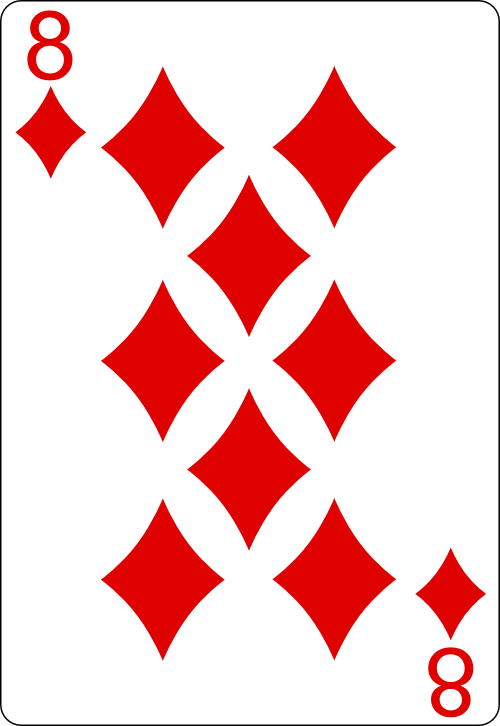
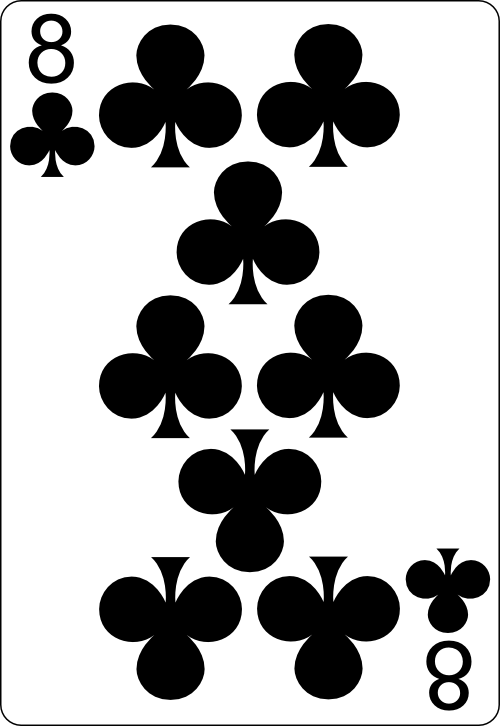
refactor: update rule 梅花 < 方塊 < 愛心 < 黑桃

diff --git a/game/gameLogic.py b/game/gameLogic.py
@@ -242,14 +242,14 @@ def convertHand(hand):
         else:
             base = int(card[0])-2
         
-        if card[1] == "D":
-            suit = 1
-        elif card[1] == "C":
-            suit = 2
+        if card[1] == "C":
+            suit = 1  # 梅花 (Club)
+        elif card[1] == "D":
+            suit = 2  # 方塊 (Diamond)
         elif card[1] == "H":
-            suit = 3
+            suit = 3  # 愛心 (Heart)
         elif card[1] == "S":
-            suit = 4
+            suit = 4  # 黑桃 (Spade)
             
         output[counter] = int((base-1)*4 + suit)
         counter += 1
@@ -268,7 +268,7 @@ def cardValue(num):
 
 class card:
     def __init__(self, number, i):
-        self.suit = number % 4 #1 - Diamond, 2 - Club, 3- Heart, 0 - Spade
+        self.suit = number % 4 #1 - Club, 2 - Diamond, 3 - Heart, 0 - Spade
         self.value = np.ceil(number/4) #from 1 to 13.
         self.indexInHand = i #index within current hand (from 0 to 12)
         self.inPair = 0
@@ -296,13 +296,13 @@ class card:
         elif self.value == 13:
             string1 = "2"
         if self.suit == 1:
-            string2 = "D"
+            string2 = "C"  # 梅花 (Club)
         elif self.suit == 2:
-            string2 = "C"
+            string2 = "D"  # 方塊 (Diamond)
         elif self.suit == 3:
-            string2 = "H"
+            string2 = "H"  # 愛心 (Heart)
         else:
-            string2 = "S"
+            string2 = "S"  # 黑桃 (Spade)
         cardString = string1 + string2
         return "<card. %s inPair: %d, inThree: %d, inFlush: %d, inStraight: %d>" % (cardString, self.inPair, self.inThreeOfAKind, self.inFlush, self.inStraight)
         
@@ -336,36 +336,36 @@ class handsAvailable:
             self.fillThreeOfAKinds()
             self.fillFourOfAKinds()
     def fillSuits(self):
-        self.diamonds = np.zeros((self.handLength,))
-        self.clubs = np.zeros((self.handLength,))
-        self.hearts = np.zeros((self.handLength,))
-        self.spades = np.zeros((self.handLength,))
-        dc = 0
+        self.clubs = np.zeros((self.handLength,))  # 梅花 (Club)
+        self.diamonds = np.zeros((self.handLength,))  # 方塊 (Diamond)
+        self.hearts = np.zeros((self.handLength,))  # 愛心 (Heart)
+        self.spades = np.zeros((self.handLength,))  # 黑桃 (Spade)
         cc = 0
+        dc = 0
         hc = 0
         sc = 0
         for i in range(self.handLength):
             val = self.cHand[i] % 4
             if val == 1:
-                self.diamonds[dc] = self.cHand[i]
-                dc += 1
-            elif val == 2:
-                self.clubs[cc] = self.cHand[i]
+                self.clubs[cc] = self.cHand[i]  # 梅花 (Club)
                 cc += 1
+            elif val == 2:
+                self.diamonds[dc] = self.cHand[i]  # 方塊 (Diamond)
+                dc += 1
             elif val == 3:
-                self.hearts[hc] = self.cHand[i]
+                self.hearts[hc] = self.cHand[i]  # 愛心 (Heart)
                 hc += 1
             else:
-                self.spades[sc] = self.cHand[i]
+                self.spades[sc] = self.cHand[i]  # 黑桃 (Spade)
                 sc += 1
-        self.diamonds = self.diamonds[0:dc]
         self.clubs = self.clubs[0:cc]
+        self.diamonds = self.diamonds[0:dc]
         self.hearts = self.hearts[0:hc]
         self.spades = self.spades[0:sc]
-        if self.diamonds.size >= 5:
-            self.flushes.append(self.diamonds)
         if self.clubs.size >= 5:
             self.flushes.append(self.clubs)
+        if self.diamonds.size >= 5:
+            self.flushes.append(self.diamonds)
         if self.hearts.size >= 5:
             self.flushes.append(self.hearts)
         if self.spades.size >= 5:
@@ -442,7 +442,6 @@ class handsAvailable:
                             self.cards[self.cHand[i]].inFourOfAKind = 1
                             self.cards[self.cHand[i+1]].inFourOfAKind = 1
                             self.cards[self.cHand[i+2]].inFourOfAKind = 1
-                            self.cards[self.cHand[i+3]].inFourOfAKind = 1            
-        
-        
-    
+                            self.cards[self.cHand[i+3]].inFourOfAKind = 1
+
+

diff --git a/game/big2Game.py b/game/big2Game.py
@@ -50,26 +50,26 @@ class big2Game:
         self.currentHands[3] = np.sort(shuffledDeck[26:39])
         self.currentHands[4] = np.sort(shuffledDeck[39:52])
         self.cardsPlayed = np.zeros((4,52), dtype=int)
-        #who has 3D - this gets played
+        #找出擁有梅花三(3C)的玩家 - 這張牌會被首先打出
         for i in range(52):
-            if shuffledDeck[i] == 1:
-                threeDiamondInd = i
+            if shuffledDeck[i] == 1:  # 梅花三的編號是1
+                threeClubInd = i
                 break
-        if threeDiamondInd < 13:
-            whoHas3D = 1
-        elif threeDiamondInd < 26:
-            whoHas3D = 2
-        elif threeDiamondInd < 39:
-            whoHas3D = 3
+        if threeClubInd < 13:
+            whoHas3C = 1
+        elif threeClubInd < 26:
+            whoHas3C = 2
+        elif threeClubInd < 39:
+            whoHas3C = 3
         else:
-            whoHas3D = 4
-        self.currentHands[whoHas3D] = self.currentHands[whoHas3D][1:]
-        self.cardsPlayed[whoHas3D-1][0] = 1
+            whoHas3C = 4
+        self.currentHands[whoHas3C] = self.currentHands[whoHas3C][1:]
+        self.cardsPlayed[whoHas3C-1][0] = 1  # 梅花三(3C)的索引是0（1-1）
         self.goIndex = 1
         self.handsPlayed = {}
-        self.handsPlayed[self.goIndex] = handPlayed([1],whoHas3D)
+        self.handsPlayed[self.goIndex] = handPlayed([1], whoHas3C)  # 梅花三(3C)的編號是1
         self.goIndex += 1
-        self.playersGo = whoHas3D + 1
+        self.playersGo = whoHas3C + 1
         if self.playersGo == 5:
             self.playersGo = 1
         self.passCount = 0
@@ -91,7 +91,7 @@ class big2Game:
         self.fillNeuralNetworkHand(2)
         self.fillNeuralNetworkHand(3)
         self.fillNeuralNetworkHand(4)
-        self.updateNeuralNetworkInputs(np.array([1]),whoHas3D)
+        self.updateNeuralNetworkInputs(np.array([1]),whoHas3C)
         self.gameOver = 0
         self.rewards = np.zeros((4,))
         self.goCounter = 0
@@ -195,7 +195,7 @@ class big2Game:
         
         if nCards == 2:
             self.neuralNetworkInputs[nPlayer][nPlayerInd+21] = 1
-            self.neuralNetworkInputs[nnPlayer][nnPlayerInd+21] = 1
+            self.neuralNetworkInputs[nnPlayer][nPlayerInd+21] = 1
             self.neuralNetworkInputs[nnnPlayer][nnnPlayerInd+21] = 1
             value = int(gameLogic.cardValue(prevHand[1]))
             suit = prevHand[1] % 4
@@ -204,7 +204,7 @@ class big2Game:
             self.neuralNetworkInputs[nnnPlayer][phInd+19] = 1
         elif nCards == 3:
             self.neuralNetworkInputs[nPlayer][nPlayerInd+22] = 1
-            self.neuralNetworkInputs[nnPlayer][nnPlayerInd+22] = 1
+            self.neuralNetworkInputs[nnPlayer][nPlayerInd+22] = 1
             self.neuralNetworkInputs[nnnPlayer][nnnPlayerInd+22] = 1
             value = int(gameLogic.cardValue(prevHand[2]))
             suit = prevHand[2] % 4
@@ -213,7 +213,7 @@ class big2Game:
             self.neuralNetworkInputs[nnnPlayer][phInd+20] = 1
         elif nCards == 4:
             self.neuralNetworkInputs[nPlayer][nPlayerInd+23] = 1
-            self.neuralNetworkInputs[nnPlayer][nnPlayerInd+23] = 1
+            self.neuralNetworkInputs[nnPlayer][nPlayerInd+23] = 1
             self.neuralNetworkInputs[nnnPlayer][nnnPlayerInd+23] = 1
             value = int(gameLogic.cardValue(prevHand[3]))
             suit = prevHand[3] % 4
@@ -229,7 +229,7 @@ class big2Game:
             #import pdb; pdb.set_trace()
             if gameLogic.isStraight(prevHand):
                 self.neuralNetworkInputs[nPlayer][nPlayerInd+24] = 1
-                self.neuralNetworkInputs[nnPlayer][nnPlayerInd+24] = 1
+                self.neuralNetworkInputs[nnPlayer][nPlayerInd+24] = 1
                 self.neuralNetworkInputs[nnnPlayer][nnnPlayerInd+24] = 1
                 value = int(gameLogic.cardValue(prevHand[4]))
                 suit = prevHand[4] % 4
